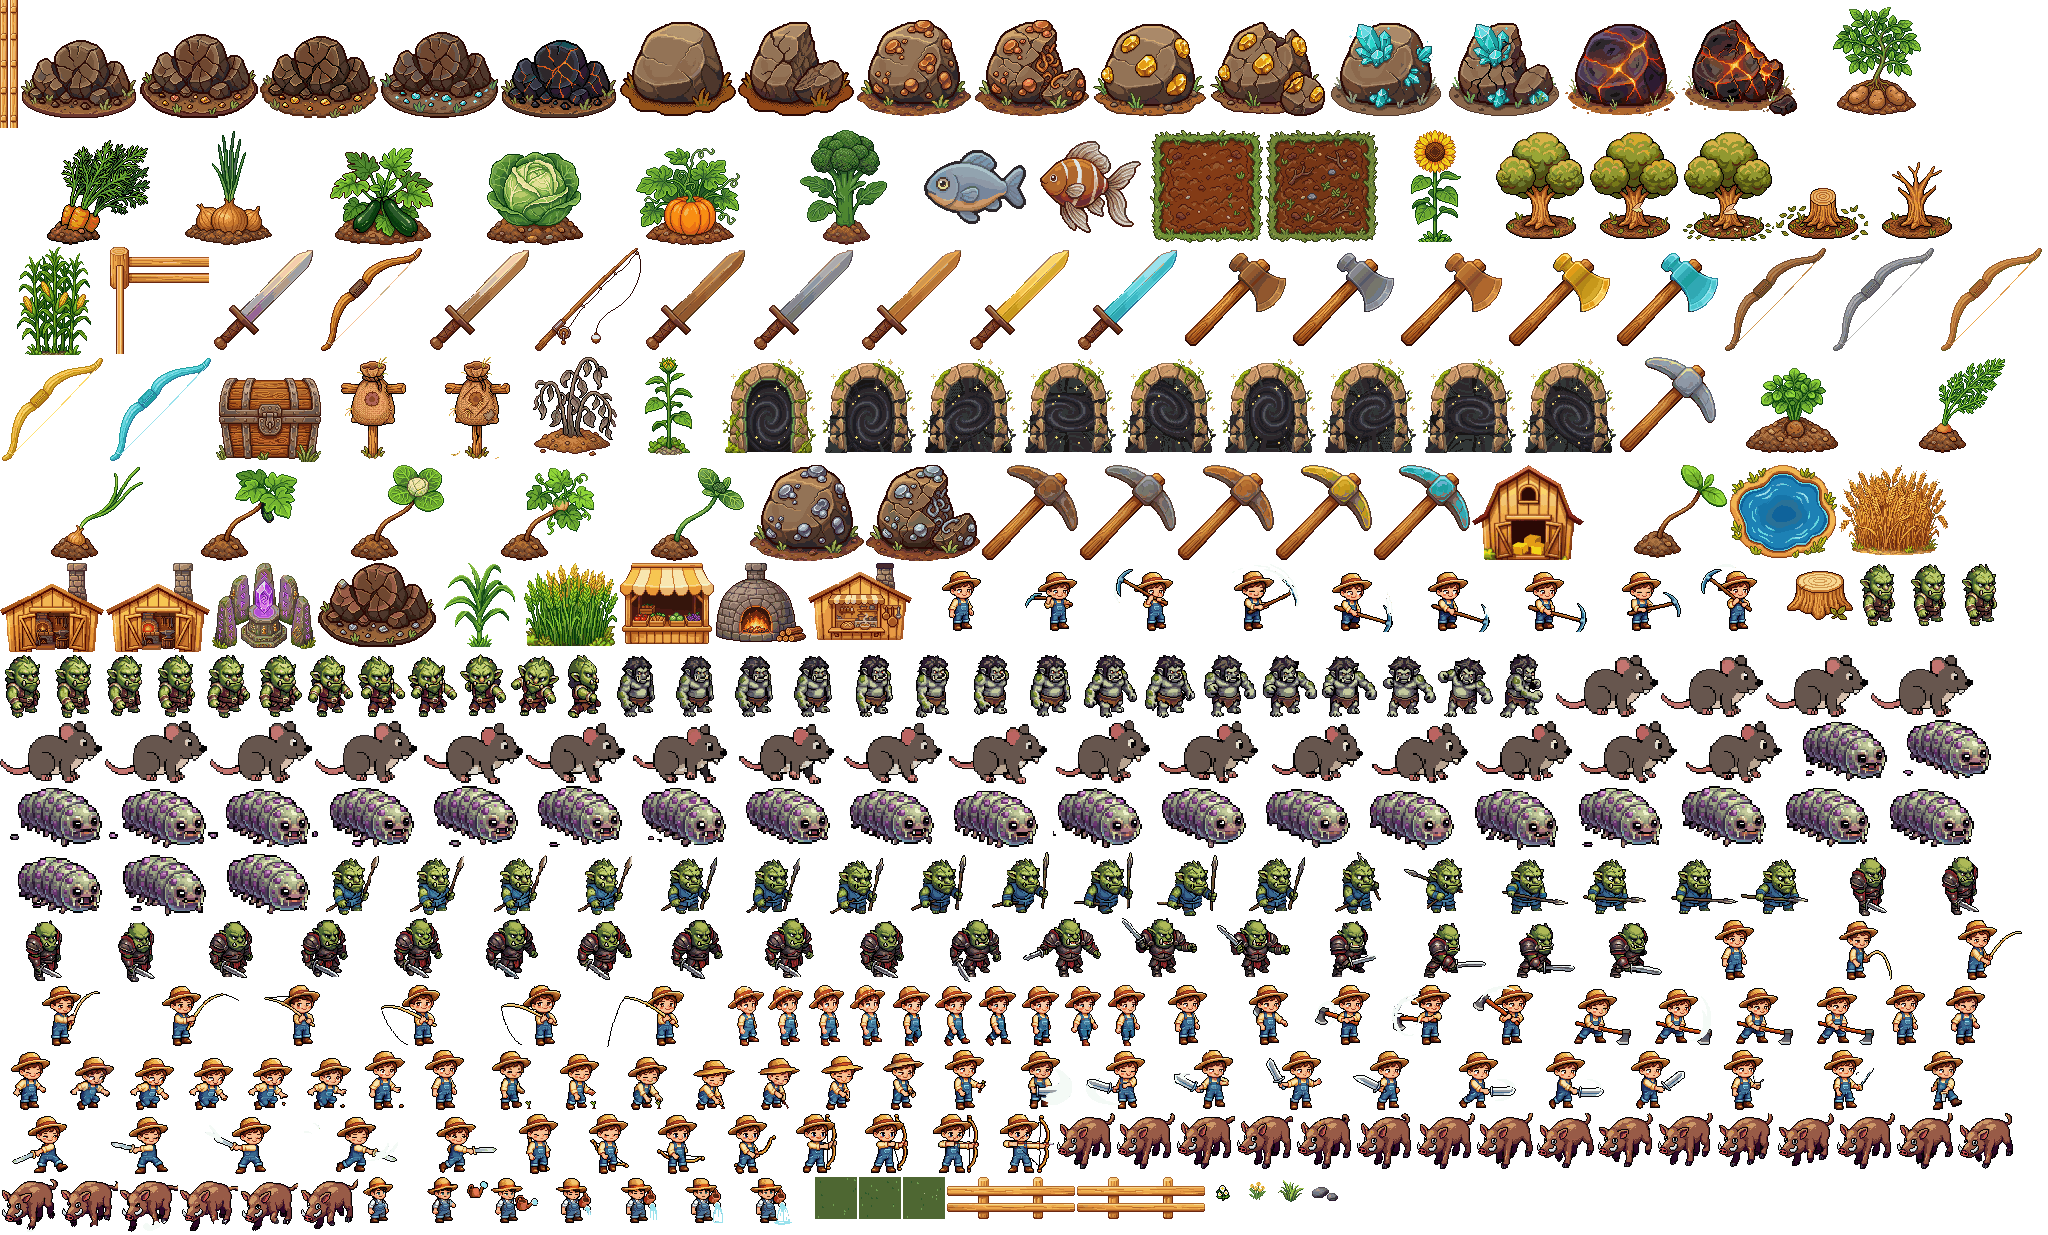
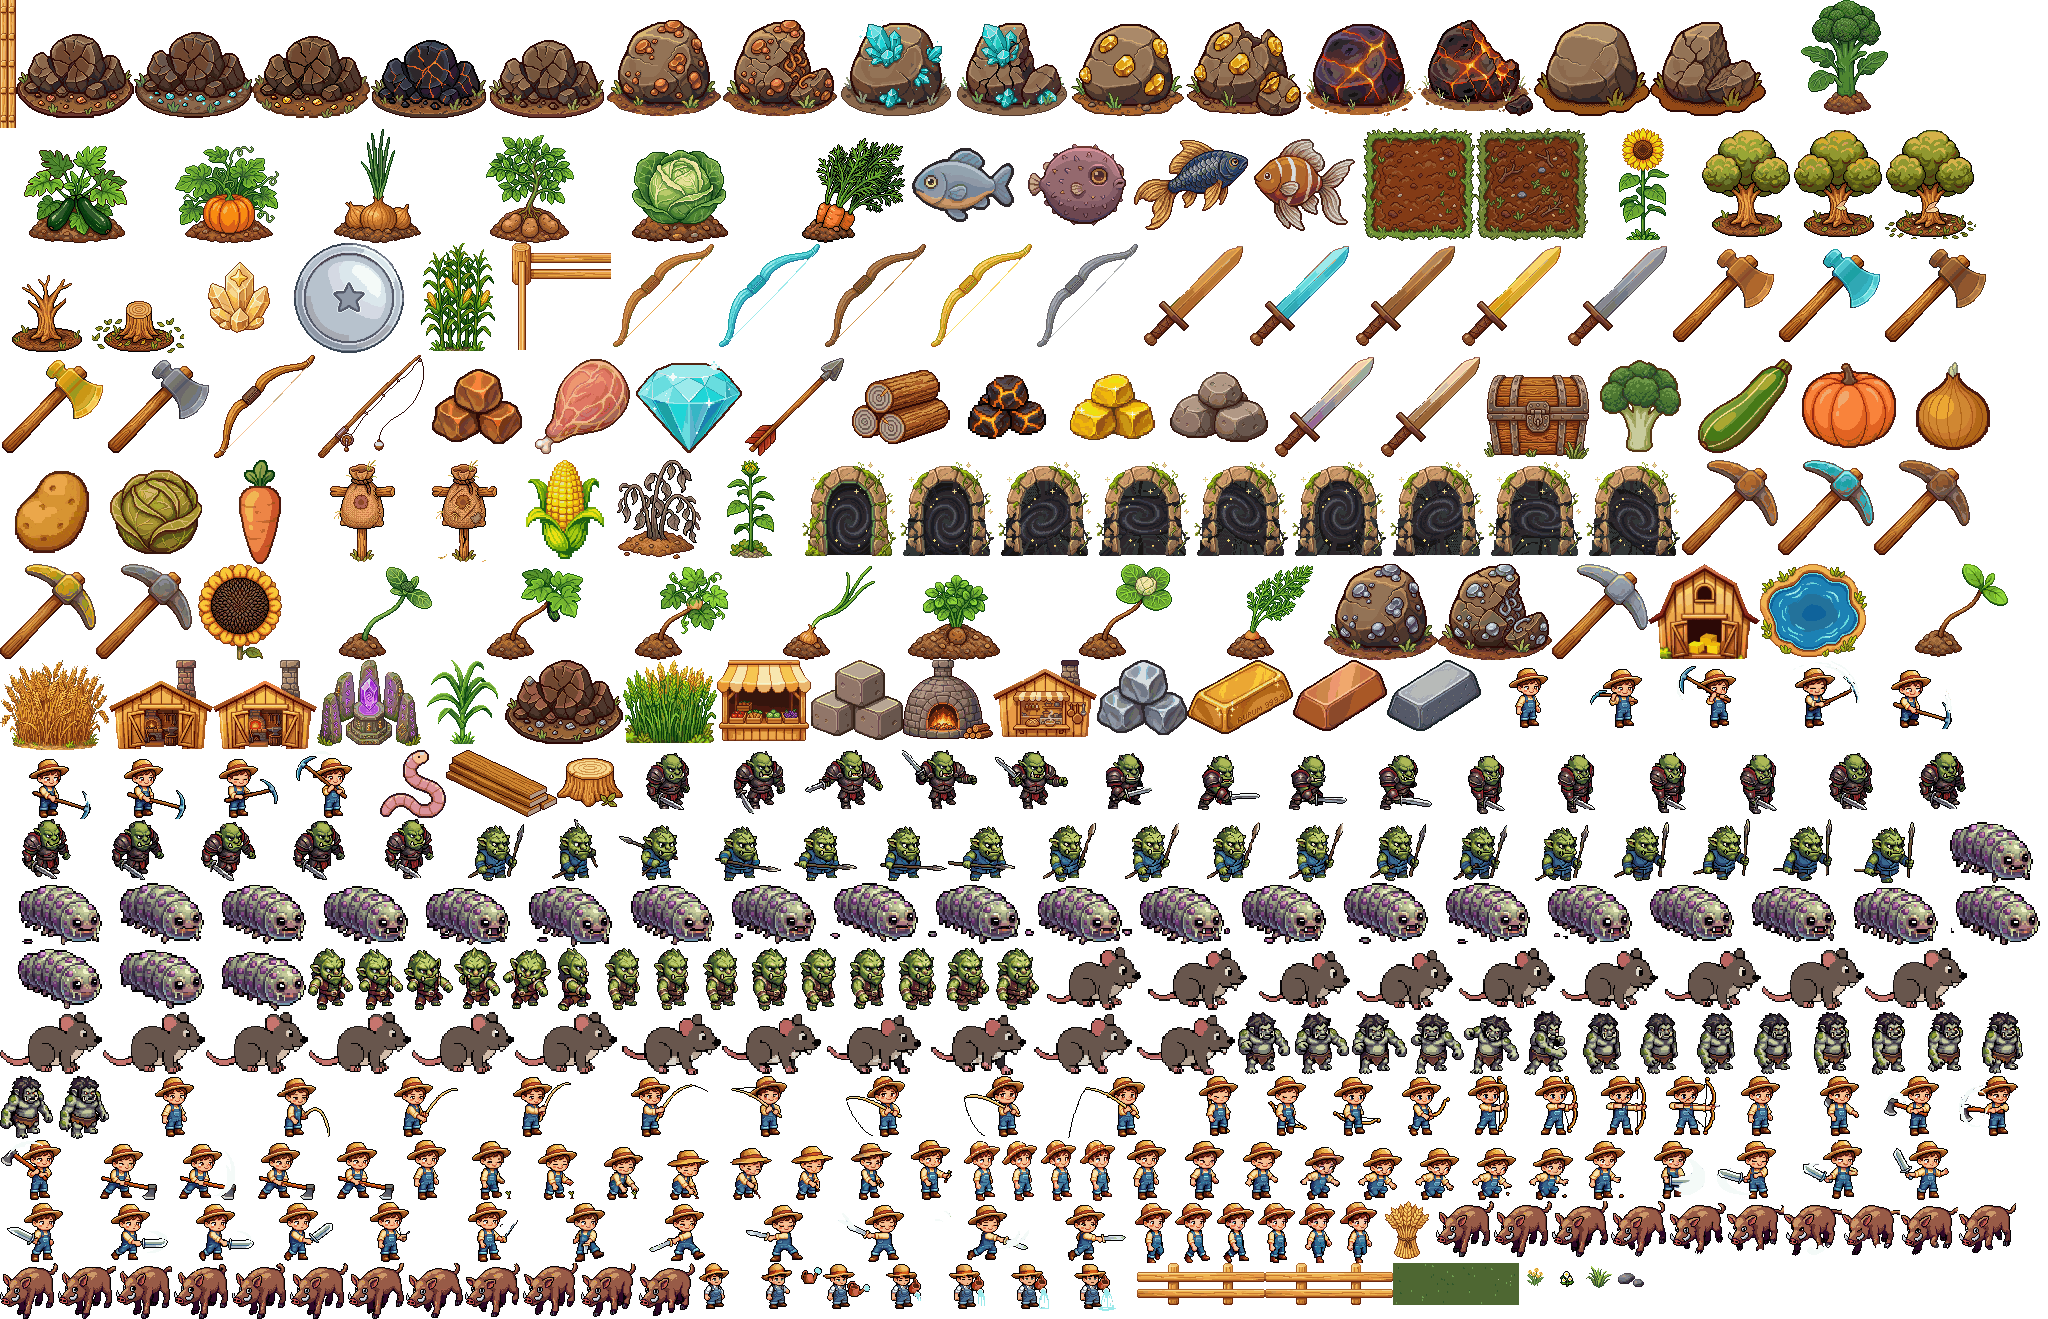
deploy vie 07/08/2026 14:48:00,88

diff --git a/public/game/boot.js b/public/game/boot.js
@@ -98,14 +98,22 @@ class BootScene extends Phaser.Scene {
     ["espada","hacha","mazo","arco"].forEach(t => ["madera","piedra","bronce","oro","diamante"].forEach(r => L.push(["arm_" + t + "_" + r, P + "arm_" + t + "_" + r + ".png?v=1"])));
 
     if (typeof CROP_ORDER !== "undefined") CROP_ORDER.forEach(k => L.push(["cropg_" + k, P + "cropg_" + k + ".png?v=4"]));   // plantas completas cozy
+    // ICONOS de recursos, cultivos, peces y monedas: los usa el "premio" que sale volando
+    // cuando talás, picás o cosechás. Antes solo existían para la interfaz HTML y en el juego
+    // no se veían (salía el "+1" pelado). Están en el atlas, esto es solo el respaldo.
+    ["madera","piedra","bronce","hierro","oro","diamante","netherita","carne","flecha","lombriz",
+     "tablon","barra_piedra","barra_bronce","barra_hierro","barra_oro"].forEach(k => L.push(["res_" + k, P + "res_" + k + ".png"]));
+    if (typeof CROP_ORDER !== "undefined") CROP_ORDER.forEach(k => L.push(["crop_" + k, P + "crop_" + k + ".png"]));
+    ["comun","raro","epico","legendario"].forEach(k => L.push(["fish_" + k, P + "fish_" + k + ".png"]));
+    ["plata","esencia"].forEach(k => L.push(["coin_" + k, P + "coin_" + k + ".png"]));
     return L;
   }
 
   preload() {
     // ATLAS: todos los sprites del mundo en 2 archivos (mucho más liviano para el server free).
     // Si el atlas no llega, ensureAll() baja los archivos sueltos como respaldo.
-    this.load.image("__atlas", "assets/atlas.png?v=19");
-    this.load.json("__atlasmap", "assets/atlas.json?v=19");
+    this.load.image("__atlas", "assets/atlas.png?v=20");
+    this.load.json("__atlasmap", "assets/atlas.json?v=20");
 
     // No hay barra propia: la pantalla de carga es UNA sola, la del HTML, y le pasamos el avance.
     // (Antes había dos barras seguidas y el juego "aparecía" antes de estar listo.)

diff --git a/public/game/balance.js b/public/game/balance.js
@@ -119,6 +119,8 @@ var BAL = (function () {
     add("Respuesta al clic", "destelloMs", "Cuánto dura el destello blanco del nodo al golpearlo (Sunflower Land: ~100 ms)", "milisegundos", () => FX_DESTELLO_MS, v => { FX_DESTELLO_MS = v; }, 10);
     add("Respuesta al clic", "barraGolpes", "Barrita de progreso bajo el nodo mientras lo golpeás", "1 o 0", () => FX_BARRA_GOLPES, v => { FX_BARRA_GOLPES = v ? 1 : 0; });
     add("Respuesta al clic", "premio", "El recurso sale volando en arco con su +N", "1 o 0", () => FX_PREMIO, v => { FX_PREMIO = v ? 1 : 0; });
+    add("Respuesta al clic", "premioPx", "Tamaño del recurso que sale volando (la celda del mundo mide 42)", "píxeles", () => FX_PREMIO_PX, v => { FX_PREMIO_PX = v; });
+    add("Respuesta al clic", "premioTxt", "Tamaño del \"+N\" que lo acompaña", "píxeles", () => FX_PREMIO_TXT, v => { FX_PREMIO_TXT = v; });
     add("Respuesta al clic", "clicSuelto", "Con el clic apretado sin arrastrar, a partir de acá la acción sale sola", "milisegundos", () => CLIC_SUELTO_MS, v => { CLIC_SUELTO_MS = v; }, 10);
     // EFECTOS DE JUGO: cada uno se puede apagar por separado si molesta
     add("Ambiente — efectos", "fx.impacto", "Sacudida y astillas al golpear un nodo (1 = sí · 0 = no)", "1 o 0", () => FX_IMPACTO, v => { FX_IMPACTO = v ? 1 : 0; });

diff --git a/public/game/farm.js b/public/game/farm.js
@@ -1095,13 +1095,14 @@ class FarmScene extends Phaser.Scene {
   premioFx(x, y, spriteKey, texto) {
     if (!FX_PREMIO) return;
     const dx = 26 + Math.random() * 14, dy = -30 - Math.random() * 10;
+    const px = Math.max(6, FX_PREMIO_PX || 22);
     let ic = null;
     if (spriteKey && this.textures.exists(spriteKey)) {
       ic = this.add.image(x, y - 10, spriteKey).setDepth(99997);
-      ic.setScale(Math.min(1, 18 / Math.max(1, ic.width)));
+      ic.setDisplaySize(px, px * (ic.height / Math.max(1, ic.width)));   // tamaño fijo: los PNG vienen a ~106 px
     }
-    const t = this.add.text(x + (ic ? 16 : 0), y - 10, texto, {
-      fontFamily: "system-ui", fontSize: "12px", fontStyle: "bold",
+    const t = this.add.text(x + (ic ? px * 0.75 : 0), y - 10, texto, {
+      fontFamily: "system-ui", fontSize: Math.max(9, FX_PREMIO_TXT || 15) + "px", fontStyle: "bold",
       color: "#fff8e0", stroke: "#241505", strokeThickness: 3,
     }).setOrigin(0, 0.5).setDepth(99998);
     [ic, t].forEach((el, i) => {

diff --git a/public/game/config.js b/public/game/config.js
@@ -29,6 +29,10 @@ var CLIC_BUFFER_MS = 260;
 var FX_DESTELLO_MS = 90;   // cuánto dura el destello blanco del nodo al recibir el golpe (SFL: ~100 ms)
 var FX_BARRA_GOLPES = 1;   // barrita de progreso bajo el nodo mientras lo estás golpeando (como SFL)
 var FX_PREMIO = 1;         // el recurso sale volando en arco con su "+N" (como el tronco de SFL)
+// Tamaño del ícono del recurso que sale volando. Venía en 18 px y no se leía; +25% = 22 px.
+// (La celda del mundo mide 42 px, así que ocupa poco más de medio tile: se ve sin tapar nada.)
+var FX_PREMIO_PX = 22;
+var FX_PREMIO_TXT = 15;    // tamaño del "+N" que lo acompaña (también +25%)
 // En qué momento de la acción "pega" la herramienta (0 = al instante del clic, 1 = al final).
 // Acá es donde el nodo se agrieta y saltan las astillas. Con el granjero invisible conviene 0.
 var ACT_IMPACTO = 0;

diff --git a/tools/build-atlas.py b/tools/build-atlas.py
@@ -1,0 +1,105 @@
+#!/usr/bin/env python3
+"""
+Golden Farm · armador del atlas de sprites.
+
+Junta TODOS los PNG que el juego necesita en un solo archivo (public/assets/atlas.png)
+más su mapa (atlas.json). Así el navegador pide 2 archivos en vez de 300, que es la
+diferencia entre entrar rápido o esperar en el server gratis de Render.
+
+Uso:
+    python3 tools/build-atlas.py            # arma el atlas
+    python3 tools/build-atlas.py --check    # solo dice qué falta, sin escribir nada
+
+Después de correrlo hay que subir el número de versión en boot.js:
+    this.load.image("__atlas", "assets/atlas.png?v=NN");
+    this.load.json("__atlasmap", "assets/atlas.json?v=NN");
+(si no, el navegador sirve el atlas viejo de su caché).
+"""
+import json
+import math
+import os
+import re
+import sys
+
+from PIL import Image
+
+RAIZ = os.path.dirname(os.path.dirname(os.path.abspath(__file__)))
+FARM = os.path.join(RAIZ, "public", "assets", "farm")
+SALIDA_PNG = os.path.join(RAIZ, "public", "assets", "atlas.png")
+SALIDA_JSON = os.path.join(RAIZ, "public", "assets", "atlas.json")
+BOOT = os.path.join(RAIZ, "public", "game", "boot.js")
+
+# Los iconos de recursos, cultivos, peces y monedas también van al atlas: el juego los
+# usa para el "premio" que sale volando cuando talás, picás o cosechás.
+EXTRA = ["res_", "crop_", "fish_", "coin_"]
+
+
+def claves_pedidas():
+    """Las claves que YA tenía el atlas anterior. Es la lista buena y probada: se conserva
+    entera y encima se le suman los iconos EXTRA. Si no hay atlas previo, arranca vacía."""
+    try:
+        viejo = json.load(open(SALIDA_JSON, encoding="utf-8"))
+        return {k: k + ".png" for k in viejo.get("frames", {})}
+    except Exception:
+        return {}
+
+
+def archivos():
+    """Todo lo que hay que empaquetar: lo que ya estaba + los iconos EXTRA."""
+    pedidos = claves_pedidas()
+    todos = {}
+    for nombre in sorted(os.listdir(FARM)):
+        if not nombre.endswith(".png"):
+            continue
+        clave = nombre[:-4]
+        if clave in pedidos or any(clave.startswith(p) for p in EXTRA):
+            todos[clave] = os.path.join(FARM, nombre)
+    faltan = [k for k in pedidos if k not in todos]
+    return todos, faltan
+
+
+def empaquetar(imgs, ancho):
+    """Acomoda por filas, ordenando de más alto a más bajo (simple y suficiente)."""
+    orden = sorted(imgs.items(), key=lambda kv: -kv[1].height)
+    marcos, x, y, alto_fila = {}, 0, 0, 0
+    for clave, im in orden:
+        w, h = im.size
+        if x + w > ancho:
+            x, y, alto_fila = 0, y + alto_fila, 0
+        marcos[clave] = {"x": x, "y": y, "w": w, "h": h}
+        x += w
+        alto_fila = max(alto_fila, h)
+    return marcos, y + alto_fila
+
+
+def main():
+    solo_chequear = "--check" in sys.argv
+    rutas, faltan = archivos()
+    if faltan:
+        print("Sin archivo (el juego los pide pero no están):", ", ".join(sorted(faltan)))
+    imgs = {k: Image.open(v).convert("RGBA") for k, v in rutas.items()}
+    area = sum(im.width * im.height for im in imgs.values())
+    ancho = 1024
+    while ancho * ancho < area * 1.35:
+        ancho *= 2
+
+    marcos, alto = empaquetar(imgs, ancho)
+    print(f"{len(imgs)} sprites · lienzo {ancho}x{alto}")
+    if solo_chequear:
+        return
+
+    hoja = Image.new("RGBA", (ancho, alto), (0, 0, 0, 0))
+    for clave, fr in marcos.items():
+        hoja.paste(imgs[clave], (fr["x"], fr["y"]))
+
+    # paleta optimizada (255 colores + transparencia): pesa un tercio y en pixel art no se nota
+    # FASTOCTREE es el único método que conserva la transparencia (RGBA)
+    hoja.quantize(colors=255, method=Image.FASTOCTREE).save(SALIDA_PNG, optimize=True)
+    json.dump({"frames": marcos}, open(SALIDA_JSON, "w"), separators=(",", ":"))
+    kb = os.path.getsize(SALIDA_PNG) / 1024
+    print(f"atlas.png {kb:.0f} KB · atlas.json {os.path.getsize(SALIDA_JSON)/1024:.0f} KB")
+    print("ACORDATE de subir el ?v=NN del atlas en boot.js")
+
+
+if __name__ == "__main__":
+    main()

diff --git a/CHANGELOG.md b/CHANGELOG.md
@@ -543,6 +543,34 @@ Todo por código, sin arte nuevo, y cada efecto se apaga por separado desde el p
 
 Verificado: 782 entradas del panel de balanceo, 20 ventanas OK, sin funciones faltantes.
 
+### El recurso que sale volando ahora SE VE (4/8)
+
+El diseñador señaló que en el video de Sunflower Land, al talar el cactus, salen unos **troncos**
+bien visibles, y que en nuestro juego el recurso salía muy chiquito. Revisando, era peor: **no salía
+en absoluto**.
+
+**La causa**: los iconos de recursos (`res_madera.png`, `res_piedra.png`, los cultivos, los peces,
+las monedas) existían como archivos sueltos y se usaban solo en la interfaz HTML —la bolsa, la
+tienda— pero **nunca se cargaban dentro del juego**. Así que el "premio" que sale volando dibujaba
+el texto y el icono no, porque esa textura no existía para Phaser. Se veía un "+1" pelado.
+
+**Qué se hizo**
+
+- Se escribió `tools/build-atlas.py`, el armador del atlas, que hasta ahora no estaba en el
+  repositorio (se hacía a mano cada vez). Documentado, con modo `--check` que solo informa.
+- **Atlas rehecho: 329 → 358 sprites**, sumando los 15 iconos de recursos, los 10 de cultivos, los
+  4 de peces y las 2 monedas. Pasó de 388 KB a 438 KB — 50 KB más por 29 sprites, y evita 29
+  descargas sueltas. Versión subida a `?v=20`.
+- El icono del premio ahora se dibuja a **tamaño fijo de 22 px** (era 18, +25% como pidió el
+  diseñador) y el "+N" a 15 px. Los PNG originales vienen a ~106 px, así que antes dependía del
+  tamaño del archivo; ahora es un número explícito y editable.
+- Vale para todo lo que sale de una interacción: **talar, picar, minar y cosechar**.
+
+Verificado recortando el atlas nuevo: la madera, la piedra, el oro, los cultivos y el granjero
+salen enteros y con la transparencia intacta (la paleta optimizada necesita FASTOCTREE, que es el
+único método de Pillow que no aplasta el canal alfa — con el método anterior el fondo se volvía
+negro).
+
 ### Velocidad de talado al nivel de Sunflower Land (4/8, video del diseñador)
 
 El diseñador mandó un video de Sunflower Land talando cactus. Lo medí **cuadro por cuadro** (30 fps)
